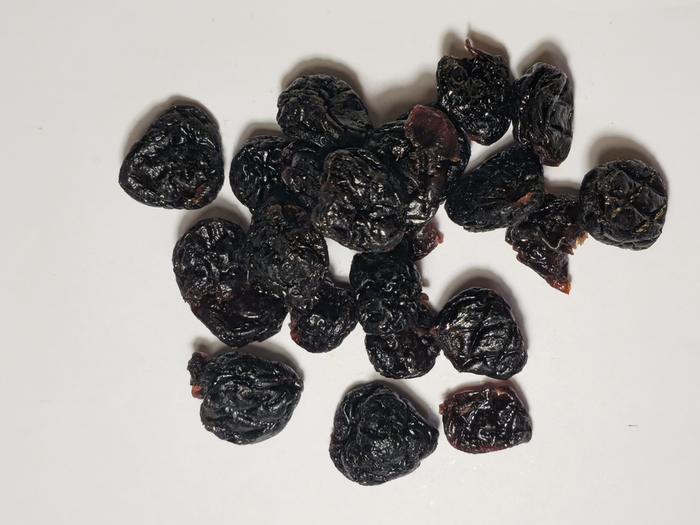
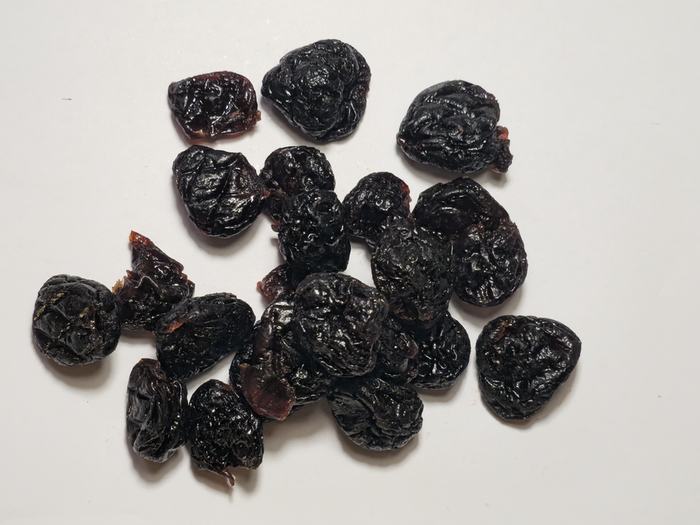
fix: align slug aliases with static assets

diff --git a/src/app/products/page.tsx b/src/app/products/page.tsx
@@ -1,7 +1,7 @@
 import { Suspense } from "react";
 import { Product } from "@/types/catalog";
 import ProductsPageContent from "./ProductsPageContent";
-import { products as staticProducts } from "@/data/products";
+import { findStaticProduct, getCanonicalSlug } from "@/lib/staticProductLookup";
 
 export const metadata = {
   title: "Продукция | Latvbelfruits",
@@ -17,8 +17,7 @@ async function getProducts(category?: string, search?: string) {
     const { prisma } = await import("@/lib/prisma")
     
     const where: any = {
-      isActive: true,
-      slug: { not: 'vialennaya-vishnya' }
+      isActive: true
     }
 
     if (category) {
@@ -45,12 +44,12 @@ async function getProducts(category?: string, search?: string) {
 
     // Merge DB data with static translations
     const mergedProducts = dbProducts.map((product: any) => {
-      const staticData = staticProducts.find(p => p.slug === product.slug);
+      const staticData = findStaticProduct(product.slug);
       return {
         id: product.id,
         name: product.name,
         name_en: staticData?.name_en, // Add translation
-        slug: product.slug,
+        slug: getCanonicalSlug(product.slug),
         shortDescription: product.shortDescription,
         shortDescription_en: staticData?.shortDescription_en, // Add translation
         description: product.description,

diff --git a/src/app/api/products/route.ts b/src/app/api/products/route.ts
@@ -1,6 +1,6 @@
 import { NextRequest, NextResponse } from "next/server"
 import { prisma } from "@/lib/prisma"
-import { products as staticProducts } from "@/data/products"
+import { findStaticProduct, getCanonicalSlug } from "@/lib/staticProductLookup"
 
 export const dynamic = 'force-dynamic'
 
@@ -16,8 +16,7 @@ export async function GET(request: NextRequest) {
 
     // Построить условия фильтрации
     const where: any = {
-      isActive: true,
-      slug: { not: 'vialennaya-vishnya' }
+      isActive: true
     }
 
     if (category) {
@@ -49,13 +48,13 @@ export async function GET(request: NextRequest) {
     ])
 
     const products = dbProducts.map((product: any) => {
-      const staticData = staticProducts.find(p => p.slug === product.slug);
+      const staticData = findStaticProduct(product.slug);
       
       return {
         id: product.id,
         name: product.name,
         name_en: staticData?.name_en, // Add translation
-        slug: product.slug,
+        slug: getCanonicalSlug(product.slug),
         shortDescription: product.shortDescription,
         shortDescription_en: staticData?.shortDescription_en, // Add translation
         description: product.description,

diff --git a/src/app/products/[slug]/page.tsx b/src/app/products/[slug]/page.tsx
@@ -5,7 +5,7 @@ import { prisma } from "@/lib/prisma";
 import { productJsonLd } from "@/lib/seo";
 import ProductReviews from "@/components/ProductReviews";
 import ProductRecommendations from "@/components/ProductRecommendations";
-import { products as staticProducts } from "@/data/products";
+import { findStaticProduct, getCanonicalSlug } from "@/lib/staticProductLookup";
 
 type Props = { params: { slug: string } };
 
@@ -35,7 +35,7 @@ async function getProduct(slug: string) {
       ? product.reviews.reduce((sum: number, review: any) => sum + review.rating, 0) / product.reviews.length
       : 0;
 
-    const staticData = staticProducts.find(p => p.slug === product.slug);
+    const staticData = findStaticProduct(product.slug);
 
     // Преобразуем slug категории в тип Category
     const categorySlug = product.category?.slug || '';
@@ -52,7 +52,7 @@ async function getProduct(slug: string) {
     return {
       id: product.id,
       name: product.name,
-      slug: product.slug,
+      slug: getCanonicalSlug(product.slug),
       description: product.description || undefined,
       shortDescription: product.shortDescription || undefined,
       price: product.price || undefined,

diff --git a/src/app/api/cart/route.ts b/src/app/api/cart/route.ts
@@ -2,7 +2,7 @@ import { NextRequest, NextResponse } from "next/server"
 import { getServerSession } from "next-auth/next"
 import { authOptions } from "@/lib/auth"
 import { prisma } from "@/lib/prisma"
-import { products as staticProducts } from "@/data/products"
+import { findStaticProduct, getCanonicalSlug } from "@/lib/staticProductLookup"
 
 // Получить корзину пользователя
 export async function GET() {
@@ -28,11 +28,12 @@ export async function GET() {
 
     // Обогащаем товары данными из статического файла (переводы)
     const items = cart.items.map((item: any) => {
-      const staticProduct = staticProducts.find(p => p.slug === item.product.slug)
+      const staticProduct = findStaticProduct(item.product.slug)
       return {
         ...item,
         product: {
           ...item.product,
+          slug: getCanonicalSlug(item.product.slug),
           name_en: staticProduct?.name_en || item.product.name,
           unit: staticProduct?.unit || item.product.unit,
           image: staticProduct?.image || item.product.image

diff --git a/src/app/dashboard/orders/[orderId]/page.tsx b/src/app/dashboard/orders/[orderId]/page.tsx
@@ -3,7 +3,7 @@ import { redirect, notFound } from "next/navigation"
 import { authOptions } from "@/lib/auth"
 import { prisma } from "@/lib/prisma"
 import OrderDetailContent from "./OrderDetailContent"
-import { products as staticProducts } from "@/data/products"
+import { findStaticProduct, getCanonicalSlug } from "@/lib/staticProductLookup"
 
 interface Props {
   params: {
@@ -44,11 +44,12 @@ export default async function OrderPage({ params }: Props) {
 
   // Обогащаем товары переводами из статического файла
   const enrichedItems = order.items.map((item: any) => {
-    const staticProduct = staticProducts.find(p => p.slug === item.product.slug)
+    const staticProduct = findStaticProduct(item.product.slug)
     return {
       ...item,
       product: {
         ...item.product,
+        slug: getCanonicalSlug(item.product.slug),
         name_en: staticProduct?.name_en || item.product.name,
         unit: staticProduct?.unit || item.product.unit,
         image: staticProduct?.image || item.product.image

diff --git a/src/lib/recipe-assistant.ts b/src/lib/recipe-assistant.ts
@@ -2,6 +2,7 @@
 
 import { recipes, Recipe, RecipeIngredient } from '@/data/recipes';
 import { products } from '@/data/products';
+import { getCanonicalSlug } from '@/lib/staticProductLookup';
 
 // Типы для виртуального помощника
 export interface UserAvailableProducts {
@@ -102,7 +103,8 @@ class RecipeAssistant {
 
     for (const ingredient of missingIngredients) {
       if (ingredient.productSlug) {
-        const product = products.find(p => p.slug === ingredient.productSlug);
+        const canonicalSlug = getCanonicalSlug(ingredient.productSlug);
+        const product = products.find(p => p.slug === canonicalSlug);
         if (product) {
           recommended.push(product);
         }

diff --git a/src/lib/staticProductLookup.ts b/src/lib/staticProductLookup.ts
@@ -1,0 +1,19 @@
+import { products } from "@/data/products";
+
+const slugAliases: Record<string, string> = {
+  "vialennaya-vishnya": "vialenaya-vishnya",
+  "vialennaya-klyukva": "vialenaya-klyukva",
+};
+
+export function getCanonicalSlug(slug: string) {
+  return slugAliases[slug] ?? slug;
+}
+
+export function findStaticProduct(slug: string) {
+  const canonicalSlug = getCanonicalSlug(slug);
+  return products.find((product) => product.slug === canonicalSlug);
+}
+
+export function getSlugAlias(slug: string) {
+  return slugAliases[slug];
+}
